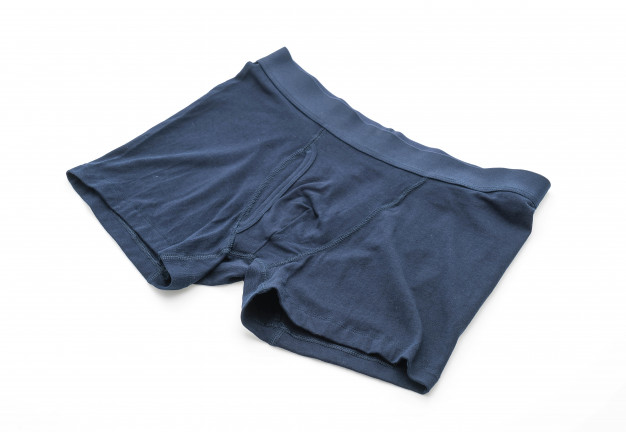
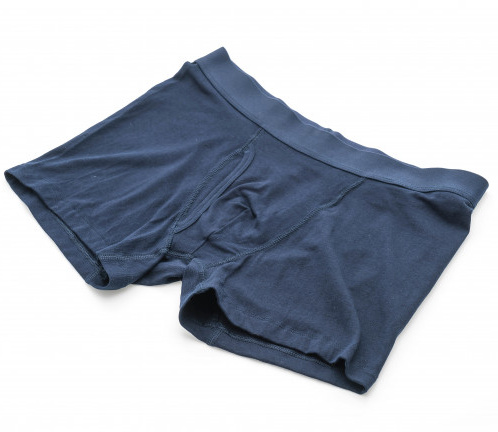
added clothes section

diff --git a/src/productData.js b/src/productData.js
@@ -56,9 +56,18 @@ import womans3 from "./assets/img/webp/womans/womans3.jpg";
 import childs1 from "./assets/img/webp/childs/childs1.webp";
 import childs2 from "./assets/img/webp/childs/childs2.webp";
 import childs3 from "./assets/img/webp/childs/childs3.webp";
-import childs4 from "./assets/img/webp/childs/childs4.webp";
-import childs5 from "./assets/img/webp/childs/childs5.webp";
+import childs4 from "./assets/img/webp/childs/childs4.jpg";
+import childs5 from "./assets/img/webp/childs/childs5.jpg";
 import childs6 from "./assets/img/webp/childs/childs6.webp";
+
+import clothes1 from "./assets/img/webp/clothes/blue.jpg";
+import clothes2 from "./assets/img/webp/clothes/grey.jpg";
+import clothes3 from "./assets/img/webp/clothes/lightblue.jpg";
+import clothes4 from "./assets/img/webp/clothes/pink.jpg";
+import clothes5 from "./assets/img/webp/clothes/purple.jpg";
+import clothes6 from "./assets/img/webp/clothes/whiteClothes.jpg";
+import clothes7 from "./assets/img/webp/clothes/coloredClothes1.jpg";
+import clothes8 from "./assets/img/webp/clothes/coloredClothes2.jpg";
 
 export const productsDataUz = {
   header: {
@@ -300,49 +309,127 @@ export const productsDataUz = {
   ],
   woman: [
     {
-      isAvailable: true,
+      isAvailable: false,
       image: womans1,
-      name: "Paypoq",
-      size: "40",
-      price: "30 000",
+      name: "Ko'ylak",
+      size: "Buyurtma asosida",
+      price: "Kelishiladi",
     },
     {
-      isAvailable: true,
+      isAvailable: false,
       image: womans2,
-      name: "Paypoq",
-      size: "40",
-      price: "30 000",
+      name: "Ko'ylak",
+      size: "Buyurtma asosida",
+      price: "Kelishiladi",
     },
     {
-      isAvailable: true,
+      isAvailable: false,
       image: womans3,
-      name: "Paypoq",
-      size: "40",
-      price: "30 000",
+      name: "Ko'ylak",
+      size: "Buyurtma asosida",
+      price: "Kelishiladi",
     },
     {
       isAvailable: true,
       image: childs1,
-      name: "Futbolka",
-      size: "40",
-      price: "30 000",
+      name: "Futbolka va shorti",
+      size: "-",
+      price: "40 000",
     },
     {
       isAvailable: true,
       image: childs2,
-      name: "Futbolka",
-      size: "40",
-      price: "30 000",
+      name: "Futbolka va shorti",
+      size: "-",
+      price: "40 000",
     },
     {
       isAvailable: true,
       image: childs3,
+      name: "Futbolka va shorti",
+      size: "-",
+      price: "40 000",
+    },
+    {
+      isAvailable: true,
+      image: childs4,
       name: "Futbolka",
-      size: "40",
-      price: "30 000",
+      size: "-",
+      price: "15 000",
+    },
+    {
+      isAvailable: true,
+      image: childs5,
+      name: "Futbolka",
+      size: "-",
+      price: "15 000",
+    },
+    {
+      isAvailable: true,
+      image: childs6,
+      name: "Futbolka",
+      size: "-",
+      price: "15 000",
     },
   ],
-  child: [],
+  child: [
+    {
+      isAvailable: true,
+      image: clothes1,
+      name: "Mato",
+      size: "-",
+      price: "65 000 (rangiga bog'liq)",
+    },
+    {
+      isAvailable: true,
+      image: clothes2,
+      name: "Mato",
+      size: "-",
+      price: "65 000 (rangiga bog'liq)",
+    },
+    {
+      isAvailable: true,
+      image: clothes3,
+      name: "Mato",
+      size: "-",
+      price: "65 000 (rangiga bog'liq)",
+    },
+    {
+      isAvailable: true,
+      image: clothes4,
+      name: "Mato",
+      size: "-",
+      price: "65 000 (rangiga bog'liq)",
+    },
+    {
+      isAvailable: true,
+      image: clothes5,
+      name: "Mato",
+      size: "-",
+      price: "65 000 (rangiga bog'liq)",
+    },
+    {
+      isAvailable: true,
+      image: clothes6,
+      name: "Mato",
+      size: "-",
+      price: "65 000 (rangiga bog'liq)",
+    },
+    {
+      isAvailable: true,
+      image: clothes7,
+      name: "Mato",
+      size: "-",
+      price: "65 000 (rangiga bog'liq)",
+    },
+    {
+      isAvailable: true,
+      image: clothes8,
+      name: "Mato",
+      size: "-",
+      price: "65 000 (rangiga bog'liq)",
+    },
+  ],
 };
 
 export const productsDataRu = {
@@ -567,50 +654,7 @@ export const productsDataRu = {
       price: "30 000",
     },
   ],
-  child: [
-    {
-      isAvailable: true,
-      image: childs1,
-      name: "Futbolka",
-      size: "40",
-      price: "30 000",
-    },
-    {
-      isAvailable: true,
-      image: childs2,
-      name: "Futbolka",
-      size: "40",
-      price: "30 000",
-    },
-    {
-      isAvailable: true,
-      image: childs3,
-      name: "Futbolka",
-      size: "40",
-      price: "30 000",
-    },
-    {
-      isAvailable: true,
-      image: childs4,
-      name: "Futbolka",
-      size: "40",
-      price: "30 000",
-    },
-    {
-      isAvailable: true,
-      image: childs5,
-      name: "Futbolka",
-      size: "40",
-      price: "30 000",
-    },
-    {
-      isAvailable: true,
-      image: childs6,
-      name: "Futbolka",
-      size: "40",
-      price: "30 000",
-    },
-  ],
+  child: [],
 };
 
 export const sliderProductsDataUz = {

diff --git a/src/containers/Main.js b/src/containers/Main.js
@@ -8,7 +8,7 @@ import { mainDataUz, mainDataRu } from "../data";
 import { sliderProductsDataRu, sliderProductsDataUz } from "../productData";
 import SliderProducts from "../components/landing/SliderProducts";
 
-function Main() {
+const Main = () => {
   let lang = useSelector((state) => state.language);
 
   let mainData;
@@ -52,6 +52,6 @@ function Main() {
       <SliderProducts data={sliderProductsData} />
     </div>
   );
-}
+};
 
 export default Main;
